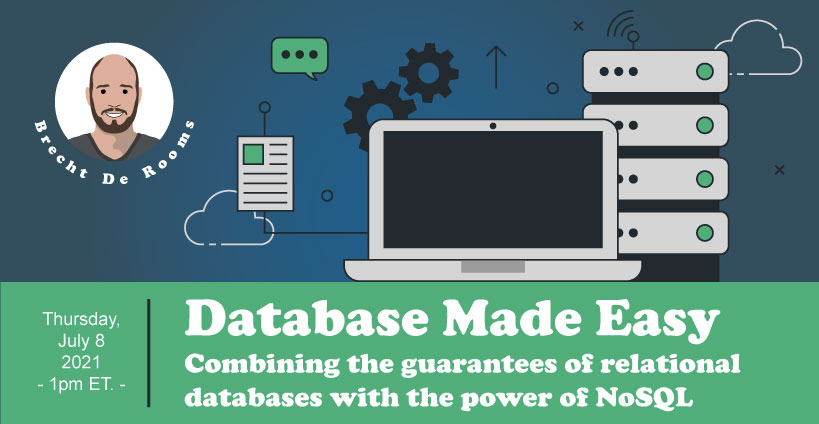
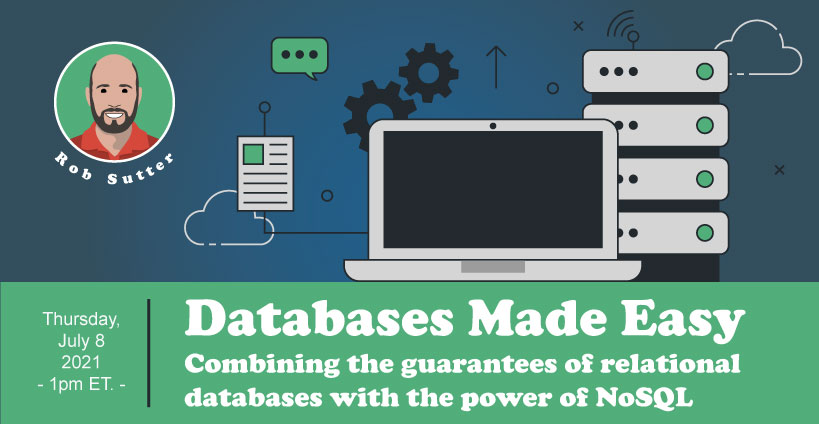
fixes

Changed region(s): [[0.0305, 0.092, 0.2442, 0.4599], [0.5189, 0.7052, 0.9158, 0.8278]]

diff --git a/content/events/databases-made-easy.md b/content/events/databases-made-easy.md
@@ -10,10 +10,10 @@ sponsor:
   image: Fauna.png
   URL: https://fauna.com/
 homepage_banner: DatabaseMadeEasy-070821.jpg
-short_desc: Brecht De Rooms shows how new algorithms enable databases that provide consistency, relations, scale, distribution, and speed without sacrificing the developer experience.
+short_desc: Rob Sutter shows how new algorithms enable databases that provide consistency, relations, scale, distribution, and speed without sacrificing the developer experience.
 embed_url: https://www.crowdcast.io/e/databases-made-easy
 draft: false
 featured: false
 ---
 
-Developers' relationship with databases has evolved enormously in the past decade, driven in large part by the cloud and by the rise of NoSQL. Many developers abandoned relational databases, but often at the cost of the consistency they provided. In this session, Brecht De Rooms shows how new algorithms enable databases that provide consistency, relations, scale, distribution, and speed without sacrificing the developer experience.
+Developers' relationship with databases has evolved enormously in the past decade, driven in large part by the cloud and by the rise of NoSQL. Many developers abandoned relational databases, but often at the cost of the consistency they provided. In this session, Rob Sutter shows how new algorithms enable databases that provide consistency, relations, scale, distribution, and speed without sacrificing the developer experience.

diff --git a/content/speakers/denis-bauer.md b/content/speakers/denis-bauer.md
@@ -1,0 +1,11 @@
+---
+title: Denis Bauer
+date: 2019-07-24T18:52:51-04:00
+speaker_image: denisbauer.jpg
+job_title:  Principal Research Scientist at CSIRO
+twitter: allPowerde
+website: https://bioinformatics.csiro.au/
+draft: false
+---
+
+Dr Denis Bauer is an internationally recognized expert in artificial intelligence. She is passionate about improving health by understanding the secrets in our genome using cloud-computing technology. She is CSIRO’s Principal Research Scientist in transformational bioinformatics, adjunct associate professor at Macquarie University and an AWS Hero bridging the gap between research and application. She keynotes international IT, LifeScience and Medical conferences, as well as authors scientific papers. Her achievements include developing open-source bioinformatics software to detect new disease genes and developing computational tools to track, monitor and diagnose emerging diseases, such as COVID-19.

diff --git a/content/speakers/rob-sutter.md b/content/speakers/rob-sutter.md
@@ -1,0 +1,11 @@
+---
+title: Rob Sutter
+date: 2019-07-24T18:52:51-04:00
+speaker_image: robsutter.jpg
+job_title:  Head of Developer Advocacy
+twitter: rts_rob
+website: https://robsutter.com
+draft: false
+---
+
+Rob Sutter has woven application development into his entire career, from time in the U.S. Army and U.S. Government to stints with the Big Four and Amazon Web Services. He has started his own company – twice – once providing consulting services and most recently with WorkFone, a software as a service startup that provided virtual digital identities to government clients. Rob loves to build in public with cloud architectures, Node.js or Go, and all things serverless!

diff --git a/content/sessions/databases-made-easy.md b/content/sessions/databases-made-easy.md
@@ -2,7 +2,7 @@
 title: Databases Made Easy
 date: 2021-06-10T12:00:00-04:00
 speakers:
-    - brecht-de-rooms
+    - rob-sutter
 recordings:
   crowdcast:
     url: https://www.crowdcast.io/e/databases-made-easy

diff --git a/content/events/moar-serverless-2021.md b/content/events/moar-serverless-2021.md
@@ -15,7 +15,7 @@ speakers:
   - ali-spittel
   - brian-leroux
   - ceora-ford
-  - tbd-moar-serverless
+  - denis-bauer
   - tbd-moar-serverless
   - tbd-moar-serverless
   - tbd-moar-serverless
